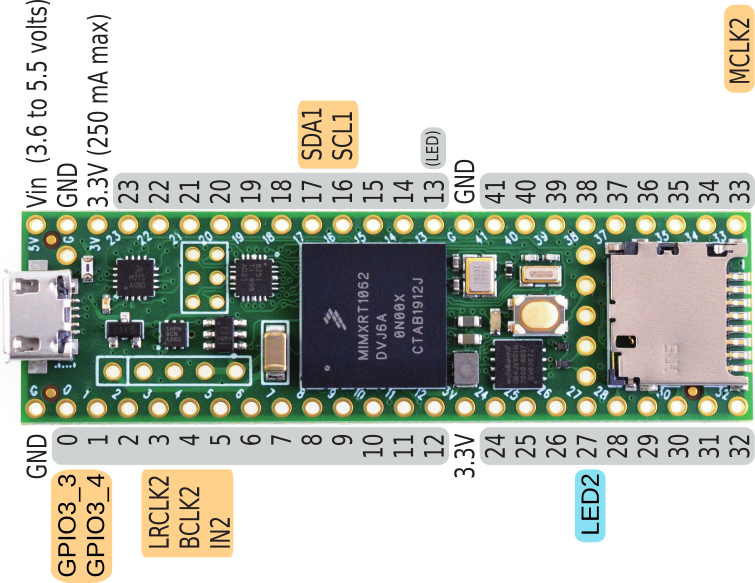
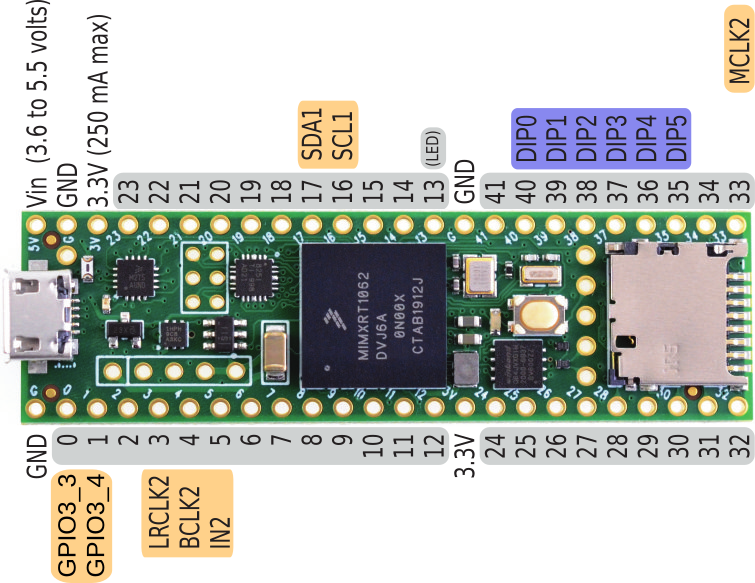
[R4.1b] update on device ID dips

Changed region(s): [[0.6702, 0.1852, 0.9139, 0.3087], [0.7616, 0.8027, 0.8225, 0.9571]]

diff --git a/R4.1/r41b.md b/R4.1/r41b.md
@@ -70,7 +70,6 @@ Figure 15 of the evaluation board manual:
 | 0              | -            | GPIO3 chip1     |
 | 1              | -            | GPIO3 chip2     |
 | 26             | LED extern   | -               |
-| 27             | -            | LED extern      |
 
 
 ### Teensy pins sensors
@@ -86,7 +85,7 @@ Figure 15 of the evaluation board manual:
 | 11             | SPI MOSI         |
 | 12             | SPI MISO         |
 | 13             | SPI SCK          |
-| 34 - 41        | Device ID        |
+| 35 - 40        | Device ID DIPs   |
 | VBAT           | Coin battery     |
 
 ![pinout](images/teensy41-R41b-pinout.png)
@@ -96,8 +95,9 @@ Figure 15 of the evaluation board manual:
 
 - Remove CAN bus
 - Add a coin-battery holder connected to Vbat for the Teensy real-time clock!
-- Replace signal screw-terminals by dupont female pins (0.1" housing, right angle?)
+- Replace signal screw-terminals by dupont male pins (0.1" housing, right angle?)
 - Add GND pin for electrode cable shield (2 times)
 - Add one-wire pins (GND, 3.3V, data) for Dallas DS18x20 temperature sensor with 4.7kOhm pull-up resistor
 - Add I2C (GND, 3.3V, SDA, SCL) pins for light sensor, etc. (2 times)
-- Some means of detecting a device ID for setting a uniqe file name? DIP switches! Or silicon serial number https://www.analog.com/media/en/technical-documentation/data-sheets/ds2401.pdf . Or Rotary encoder switch / rotary DIP switch.
+- LED on board or on external PCB together with I2C.
+- Add possibility of 6-bit dip switch for device identification.

diff --git a/R4.2/r42b.md b/R4.2/r42b.md
@@ -69,7 +69,7 @@ Figure 15 of the evaluation board manual:
 | 0              | -            | GPIO3 chip1     |
 | 1              | -            | GPIO3 chip2     |
 | 26             | LED extern   | -               |
-| 27             | -            | LED extern      |
+| 35 - 40        | Device ID DIPs | Device ID DIPs |
 
 
 ![pinout](images/teensy41-R42b-pinout.png)
@@ -78,4 +78,5 @@ Figure 15 of the evaluation board manual:
 ## Improvements
 
 - Remove UART pins
-- Replace signal screw-terminals by dupont female pins (0.1" housing, right angle?)
+- Replace signal screw-terminals by dupont male pins (0.1" housing, right angle?)
+- Add possibility of 6-bit dip switch for device identification.
